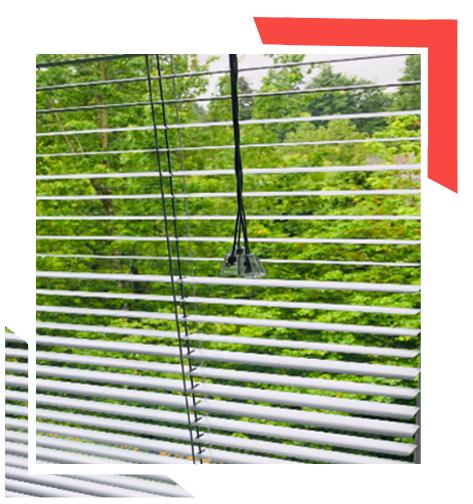
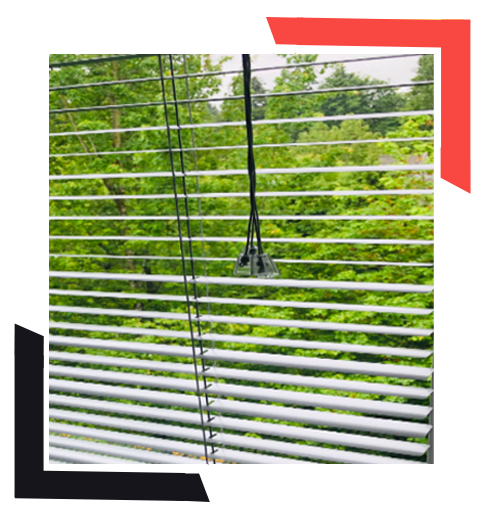
Changed Views

diff --git a/src/app/automatic/automatic.component.html b/src/app/automatic/automatic.component.html
@@ -28,7 +28,7 @@
 </div>
 </div>
 <header class="hero-banner project-bg">
-  <a class="navbar-brand" href="index.html">
+  <a class="navbar-brand" routerLink="/" style="z-index: 500000 !important;">
     <img src="../../assets/img/logo.png" alt="">
   </a>
 
@@ -52,7 +52,7 @@
     <div class="row ">
       <div class="col-md-5">
         <div class="portfolio__img">
-          <img class="img-fluid" src="../../assets/img/automatic.png" alt="" style="width: 100%;">
+          <img class="img-fluid" src="../../assets/img/457/Smart Blinds.png" alt="" style="width: 100%;">
         </div>
       </div>
       <div class="col-md-7 details">

diff --git a/src/themes/_header.scss b/src/themes/_header.scss
@@ -11,12 +11,16 @@
 				background: transparent !important;
 				&:before {
 					@include transform(rotate(45deg));
-					top: 0px;
+          top: 0px;
+          background: $white;
+
 					@include transition(all 0.5s ease-in-out);
 				}
 				&:after {
 					width: 30px;
-					@include transform(rotate(-45deg));
+          @include transform(rotate(-45deg));
+          background: $white;
+
 					bottom: 0px;
 					@include transition(all 0.5s ease-in-out);
 				}

diff --git a/src/app/estimate/estimate.component.html b/src/app/estimate/estimate.component.html
@@ -29,7 +29,7 @@
 </div>
 </div>
 <header class="hero-banner project-bg">
-  <a class="navbar-brand" href="index.html">
+  <a class="navbar-brand" routerLink="/" style="z-index: 500000 !important;">
     <img src="../../assets/img/logo.png" alt="">
   </a>
 

diff --git a/src/app/gallery/gallery.component.html b/src/app/gallery/gallery.component.html
@@ -28,7 +28,7 @@
 </div>
 </div>
 <header class="hero-banner project-bg">
-  <a class="navbar-brand" href="index.html">
+  <a class="navbar-brand" routerLink="/" style="z-index: 500000 !important;">
     <img src="../../assets/img/logo.png" alt="">
   </a>
 

diff --git a/src/app/product-catalogue/product-catalogue.component.html b/src/app/product-catalogue/product-catalogue.component.html
@@ -29,7 +29,7 @@
 </div>
 </div>
 <header class="hero-banner project-bg">
-  <a class="navbar-brand" href="index.html">
+  <a class="navbar-brand" routerLink="/" style="z-index: 500000 !important;">
     <img src="../../assets/img/logo.png" alt="">
   </a>
 

diff --git a/src/app/product-details/product-details.component.html b/src/app/product-details/product-details.component.html
@@ -28,7 +28,7 @@
 </div>
 </div>
 <header class="hero-banner project-bg">
-  <a class="navbar-brand" href="index.html">
+  <a class="navbar-brand" routerLink="/" style="z-index: 500000 !important;">
     <img src="../../assets/img/logo.png" alt="">
   </a>
 

diff --git a/src/app/home/home.component.html b/src/app/home/home.component.html
@@ -25,7 +25,7 @@
   </div>
 </div>
 <div class="hero">
-  <a class="navbar-brand" href="index.html">
+  <a class="navbar-brand" routerLink="/" style="z-index: 500000 !important;">
     <img src="../assets/img/logo.png" alt="">
   </a>
   <section>
